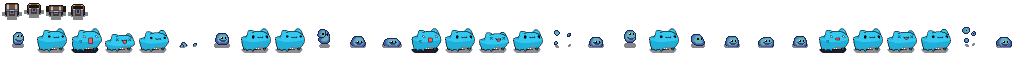
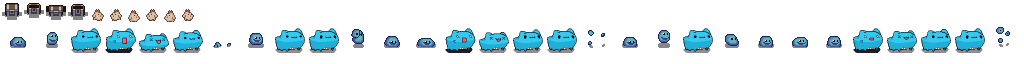
adjust graphics, add some chicken <3

diff --git a/assets/map1.tsx b/assets/map1.tsx
@@ -1,0 +1,39 @@
+<?xml version="1.0" encoding="UTF-8"?>
+<tileset version="1.10" tiledversion="1.10.1" name="map1" tilewidth="16" tileheight="16" tilecount="128" columns="32">
+ <image source="map1.png" width="512" height="64"/>
+ <tile id="38">
+  <objectgroup draworder="index" id="2">
+   <object id="1" x="0" y="14.9792" width="16" height="1.02079"/>
+  </objectgroup>
+ </tile>
+ <tile id="73">
+  <objectgroup draworder="index" id="2">
+   <object id="1" x="0" y="14.9792" width="16" height="1.02079"/>
+  </objectgroup>
+ </tile>
+ <tile id="80">
+  <objectgroup draworder="index" id="2">
+   <object id="1" x="6" y="15.0172" width="10" height="0.982773"/>
+  </objectgroup>
+ </tile>
+ <tile id="85">
+  <objectgroup draworder="index" id="2">
+   <object id="1" x="0" y="15.0552" width="16" height="0.944755"/>
+  </objectgroup>
+ </tile>
+ <tile id="97">
+  <objectgroup draworder="index" id="2">
+   <object id="1" x="0" y="14.9792" width="16" height="1.02079"/>
+  </objectgroup>
+ </tile>
+ <tile id="109">
+  <objectgroup draworder="index" id="2">
+   <object id="1" x="0" y="15.0933" width="9" height="0.906736"/>
+  </objectgroup>
+ </tile>
+ <tile id="115">
+  <objectgroup draworder="index" id="2">
+   <object id="1" x="0" y="14.8652" width="16" height="1.13485"/>
+  </objectgroup>
+ </tile>
+</tileset>

diff --git a/assets/entities.tsx b/assets/entities.tsx
@@ -1,5 +1,5 @@
 <?xml version="1.0" encoding="UTF-8"?>
-<tileset version="1.10" tiledversion="1.10.1" name="entities" tilewidth="32" tileheight="32" tilecount="3" columns="0">
+<tileset version="1.10" tiledversion="1.10.1" name="entities" tilewidth="32" tileheight="32" tilecount="4" columns="0">
  <grid orientation="orthogonal" width="1" height="1"/>
  <tile id="2">
   <image width="32" height="32" source="player.png"/>
@@ -9,5 +9,8 @@
  </tile>
  <tile id="5">
   <image width="20" height="20" source="chest.png"/>
+ </tile>
+ <tile id="6">
+  <image width="16" height="16" source="chicken.png"/>
  </tile>
 </tileset>

diff --git a/core/src/main/kotlin/com/github/moonstruck/capooadventure/system/EntitySpawnSystem.kt b/core/src/main/kotlin/com/github/moonstruck/capooadventure/system/EntitySpawnSystem.kt
@@ -116,8 +116,13 @@ class EntitySpawnSystem(
                 bodyType = BodyDef.BodyType.StaticBody,
                 canAttack = false,
                 lifeScaling = 0f,
-                lootable = true
-            )
+                lootable = true)
+            "Chicken" -> SpawnCfg(AnimationActor.CHICKEN,
+                canAttack = false,
+                lifeScaling = 0.75f,
+                physicScaling =  vec2(0.3f,0.3f),
+                physicOffset = vec2(0f,-2f* UNIT_SCALE))
+
             else -> gdxError("Type $name has no SpawnCfg setup")
         }
     }

diff --git a/core/src/main/kotlin/com/github/moonstruck/capooadventure/system/DebugSystem.kt b/core/src/main/kotlin/com/github/moonstruck/capooadventure/system/DebugSystem.kt
@@ -16,7 +16,7 @@ import ktx.graphics.use
 class DebugSystem(
     private val physicWorld: World,
     @Qualifier("GameStage") private val stage: Stage,
-) : IntervalSystem(enabled = true) {
+) : IntervalSystem(enabled = false) {
     private lateinit var physicRenderer : Box2DDebugRenderer
     private lateinit var shapeRenderer: ShapeRenderer
     private val profiler by lazy { GLProfiler(Gdx.graphics).apply { enable() } }

diff --git a/core/src/main/kotlin/com/github/moonstruck/capooadventure/component/AnimationComponent.kt b/core/src/main/kotlin/com/github/moonstruck/capooadventure/component/AnimationComponent.kt
@@ -5,7 +5,7 @@ import com.badlogic.gdx.graphics.g2d.Animation.PlayMode
 import com.badlogic.gdx.scenes.scene2d.utils.TextureRegionDrawable
 
 enum class AnimationActor{
-    PLAYER,SLIME,CHEST,UNDEFINED;
+    PLAYER,SLIME,CHICKEN,CHEST,UNDEFINED;
 
     val atlasKey: String = this.toString().lowercase()
 }

diff --git a/assets/map.tsx b/assets/map.tsx
@@ -86,7 +86,7 @@
  <tile id="24"/>
  <tile id="35">
   <objectgroup draworder="index" id="2">
-   <object id="1" x="1" y="0" width="14" height="12.087"/>
+   <object id="1" x="1" y="0" width="14" height="12.011"/>
   </objectgroup>
  </tile>
  <tile id="51">
